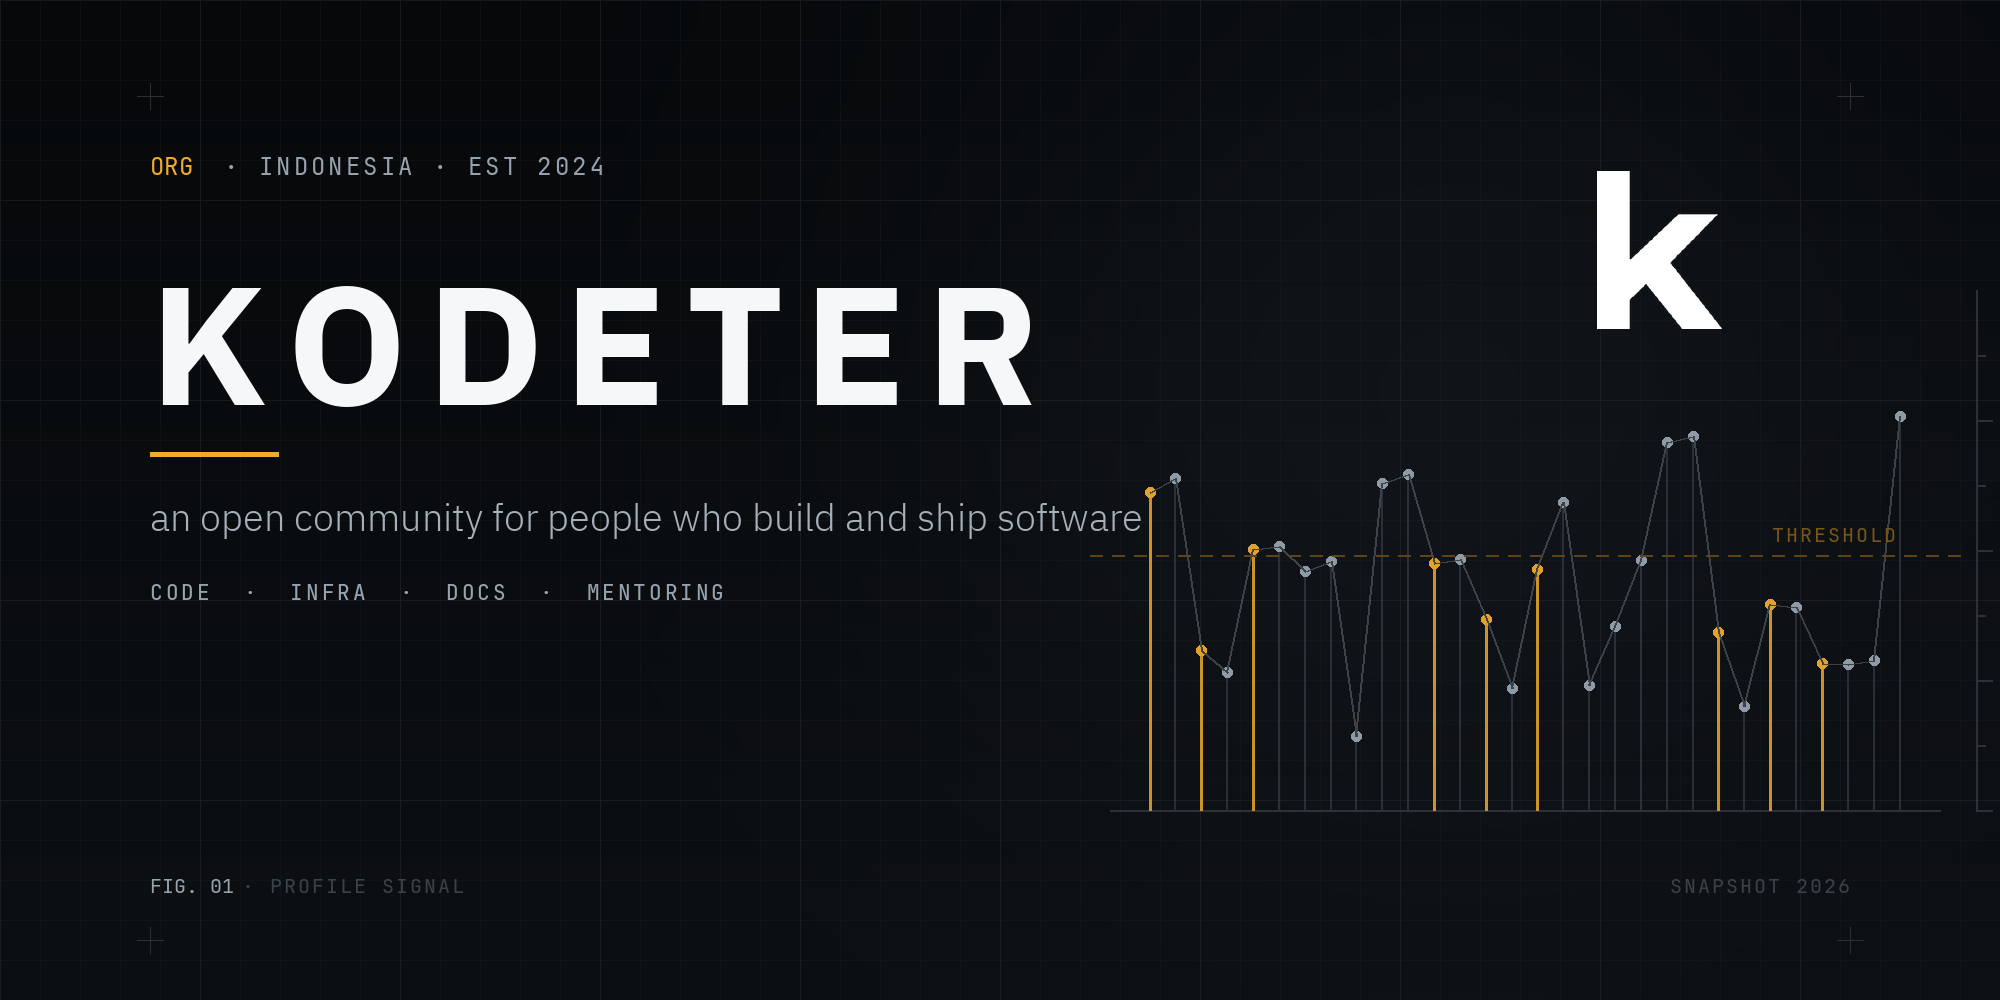
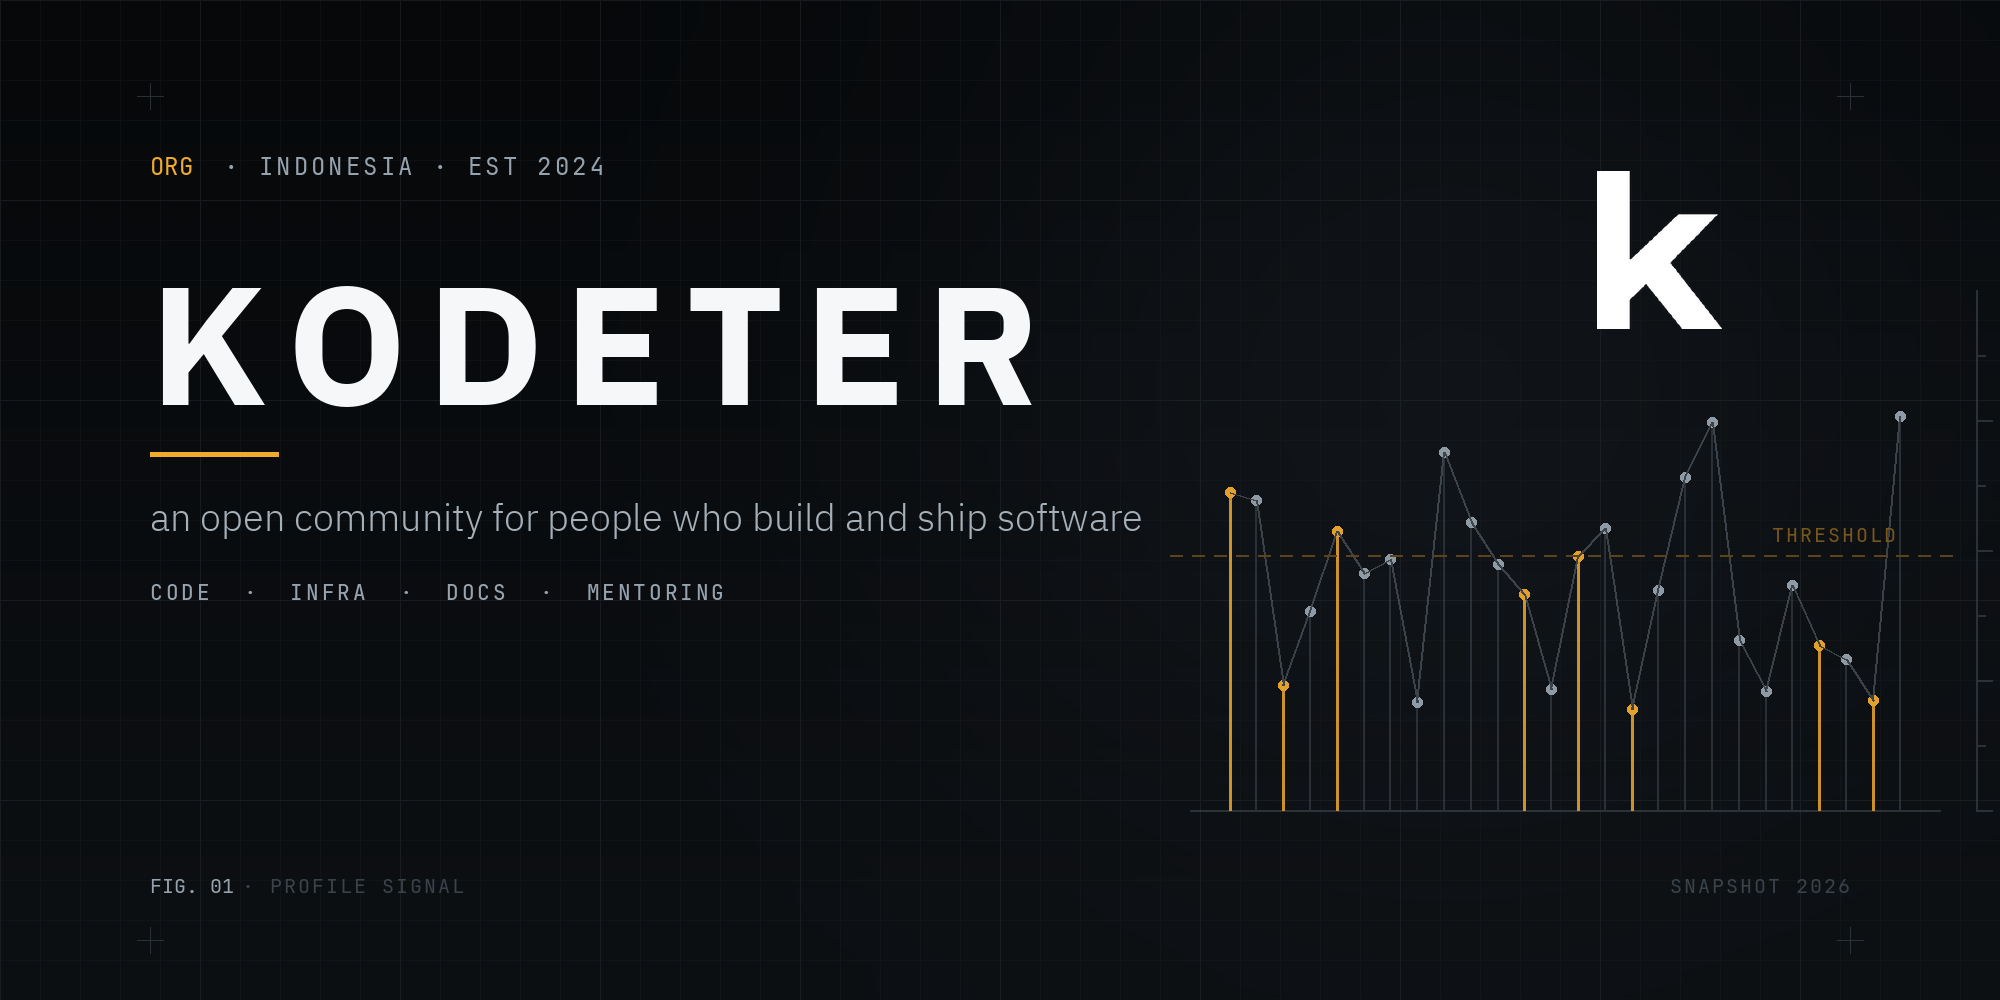
fix(brand): widen gap between caption and signal plot
The caption baseline sat eight pixels from the first plot marker, which read
as a collision on the rendered profile page.

Prompted-By: Lendra
Generated-By: Lendra AI Agents

Changed region(s): [[0.558, 0.434, 0.93, 0.806], [0.558, 0.465, 0.589, 0.496]]

diff --git a/tools/brand/generate.py b/tools/brand/generate.py
@@ -131,8 +131,8 @@ def build_banner(path, mark):
     fd = ImageDraw.Draw(field)
 
     base_y = 810
-    left, right = 1150, 1900
-    cols = 30
+    left, right = 1230, 1900
+    cols = 26
     step = (right - left) / (cols - 1)
     heights = []
     for i in range(cols):
